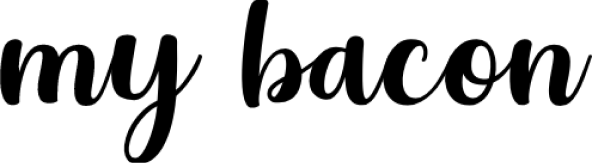
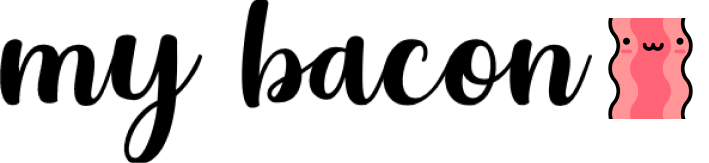
mensagem

diff --git a/index.html b/index.html
@@ -7,6 +7,16 @@
     <title>Página Inicial</title>
 </head>
 <body>
-    
+    <header>
+        <picture>
+            <img src="./img/mybacon.png" alt="logo"/>
+        </picture>
+        <picture>
+            <img src="./img/catito.png" alt="gato">
+        </picture>
+    </header>
+    <main>
+
+    </main>
 </body>
 </html>

diff --git a/css/estilo.css b/css/estilo.css
@@ -1,0 +1,12 @@
+:root{
+    --primary: #3F8A9B;
+    --secundary: #59A6BE;
+    --black: #000;
+    --white: #FFF;
+}
+/* Cabeçalho */
+header{
+    border-bottom: 0.4rem solid #3F8A9B;
+    display: flex;
+    height: 6rem
+}
